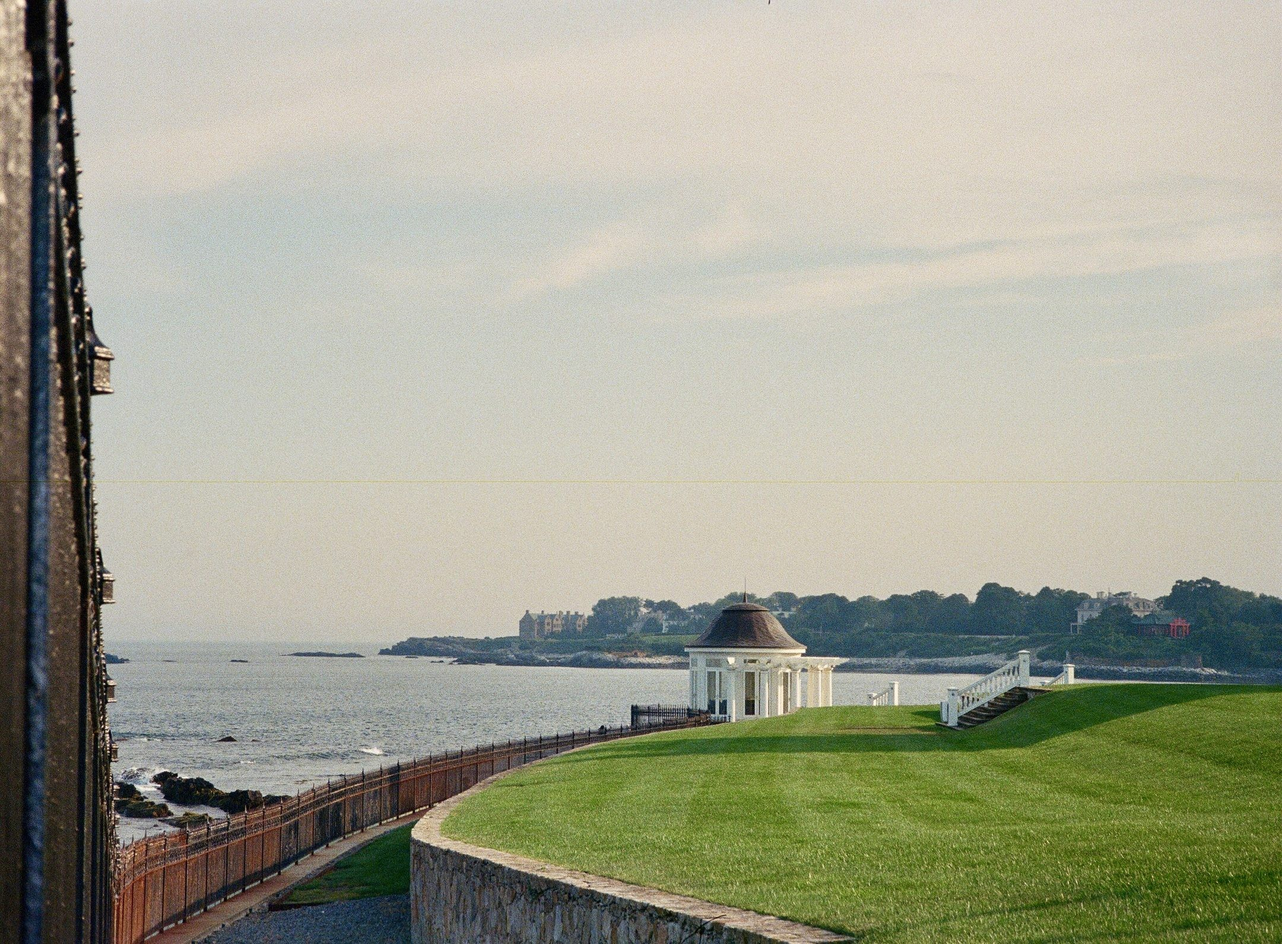
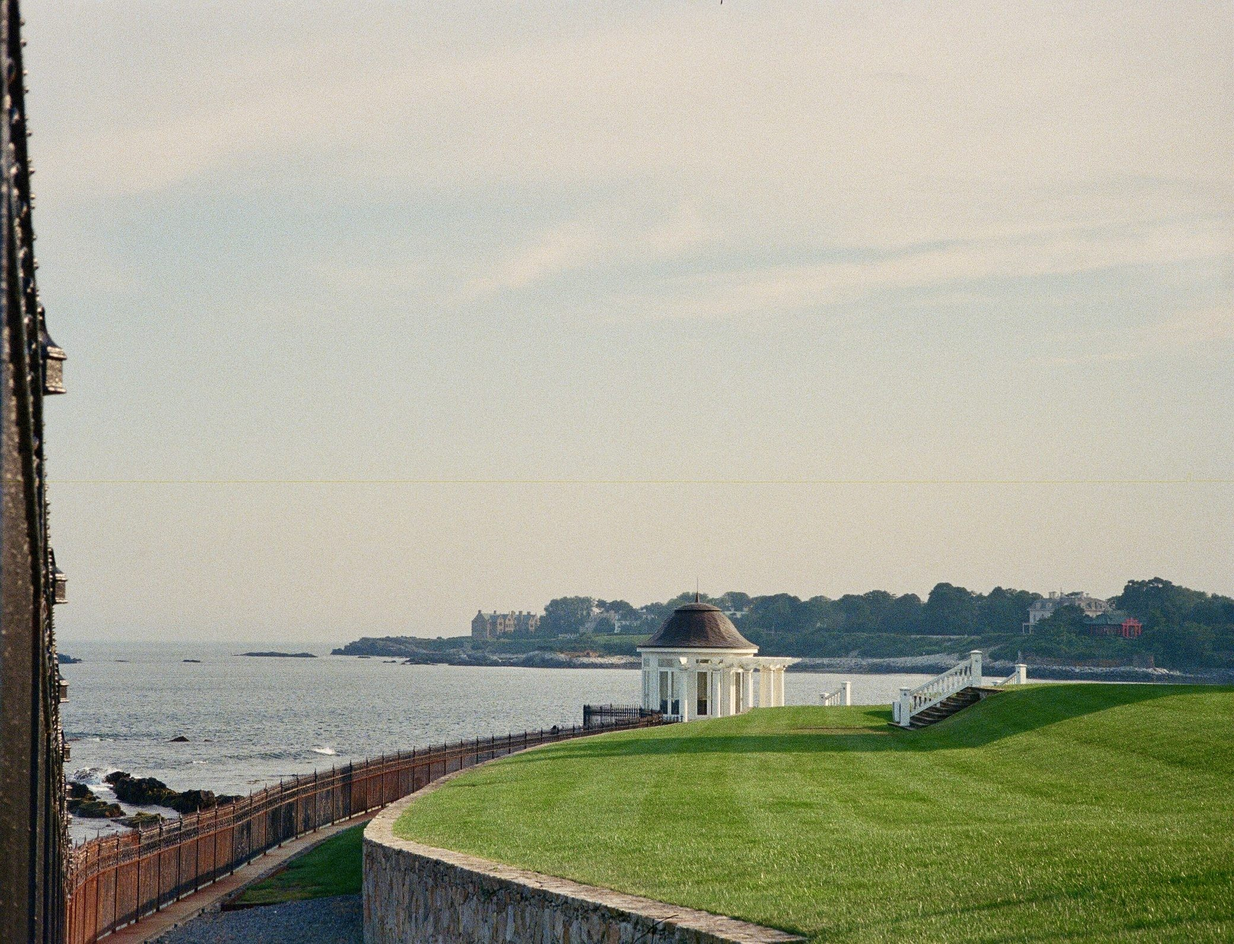
Photography: crop #6 a little more
Claude-Session: https://claude.ai/code/session_01SExFvDCx4pposUhwYXGphp

Changed region(s): [[0.0, 0.0, 1.0, 1.0], [0.4062, 0.2464, 0.4375, 0.2772]]

diff --git a/index.html b/index.html
@@ -415,7 +415,7 @@
     [8, 22],
   ];
   const SIZES = {   // width, height of each photo file
-    1: [2400, 1591], 2: [1346, 929], 3: [1591, 2400], 5: [2400, 1600], 6: [2160, 1591],
+    1: [2400, 1591], 2: [1346, 929], 3: [1591, 2400], 5: [2400, 1600], 6: [2080, 1591],
     7: [1591, 2400], 8: [2360, 1600], 9: [2400, 1591], 10: [2400, 1591], 11: [1591, 2400], 12: [1591, 2400],
     13: [2400, 1600], 14: [2400, 1591], 15: [1536, 2048], 16: [2400, 1600], 17: [2400, 1600], 18: [2400, 1600],
     19: [1591, 2400], 20: [2400, 1591], 22: [2400, 1600],
@@ -423,7 +423,7 @@
 
   // Photos in the order they appear (used by the full-screen viewer)
   // Bump PHOTO_VERSION after editing a photo file so browsers fetch the new version
-  const PHOTO_VERSION = 2;
+  const PHOTO_VERSION = 3;
   const PHOTOS = ROWS.flat().map(n => ({ src: "photos/" + String(n).padStart(2, "0") + ".jpg?v=" + PHOTO_VERSION, n }));
 
   const list = document.getElementById("photo-list");
